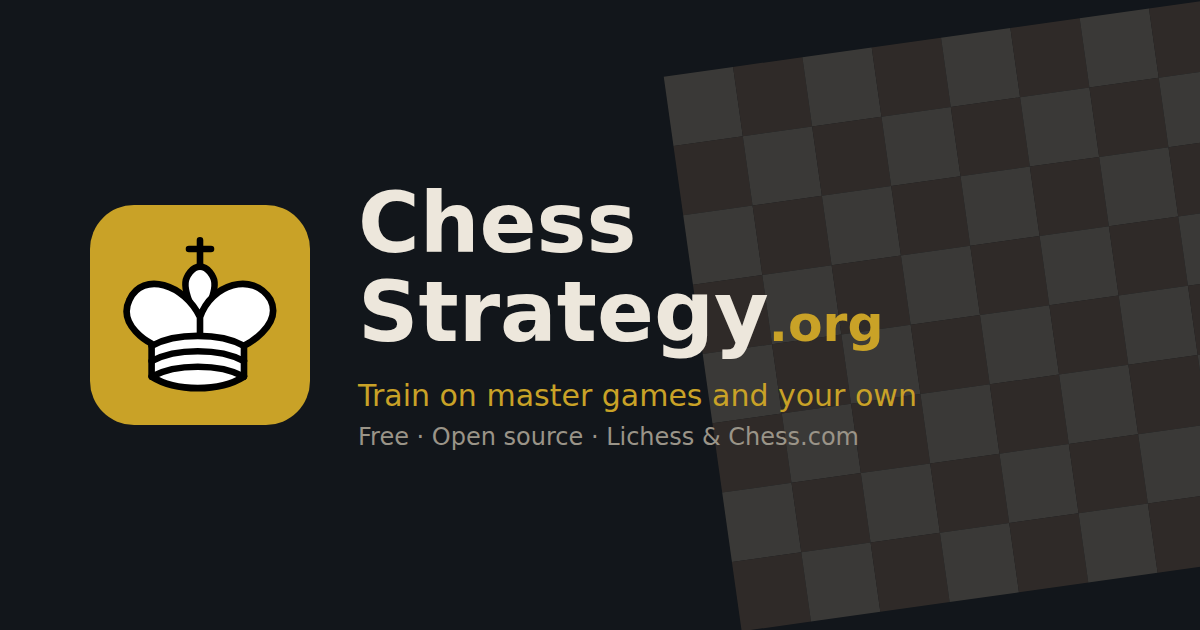
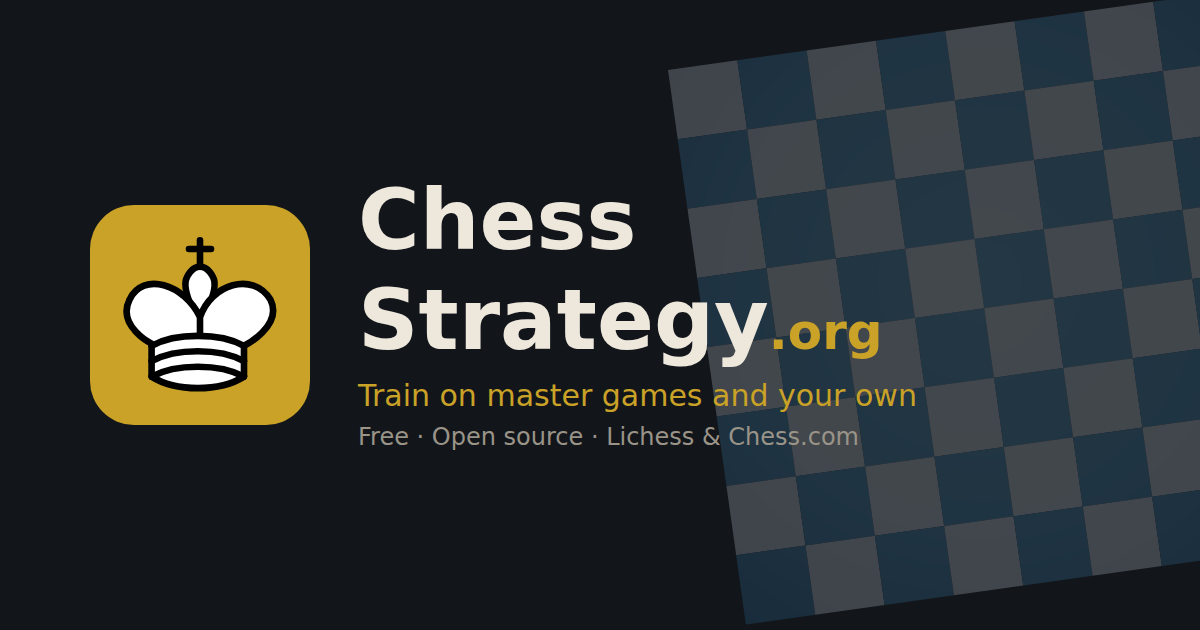
Board: the centre light on every board (the setting removed); preview image with the default board colours
Claude-Session: https://claude.ai/code/session_01MnfZY7zM1xtVVHQnQ5TNNV

Changed region(s): [[0.2775, 0.0, 1.0, 1.0], [0.37, 0.3016, 0.5242, 0.4222], [0.3083, 0.2714, 0.3392, 0.3317]]

diff --git a/app/index.html b/app/index.html
@@ -282,14 +282,10 @@
     border:1px solid var(--border); border-radius:2px; overflow:hidden;
   }
   .board{container-type:inline-size;}
-  /* Board light (Settings): a soft light over the whole board, from the top-left corner or the centre */
-  .board{position:relative; isolation:isolate;}   /* (the light stays under the arrows drawn over the board) */
-  html[data-light] .board::after{content:''; position:absolute; inset:0; pointer-events:none; z-index:3; mix-blend-mode:soft-light;}
-  html[data-light="corner"] .board::after{background:radial-gradient(120% 120% at 20% 10%, rgba(255,255,255,.26), rgba(255,255,255,0) 45%, rgba(0,0,0,.34) 100%);}
-  html[data-light="centre"] .board::after{background:radial-gradient(75% 75% at 50% 45%, rgba(255,255,255,.34), rgba(255,255,255,0) 60%, rgba(0,0,0,.5) 100%);}
-  .set-mini{display:flex; gap:4px; flex:none;}
-  .set-mini button{background:var(--panel-2); border:1px solid var(--border); border-radius:999px; color:var(--text-mute); padding:4px 10px; font:inherit; font-size:0.8rem; cursor:pointer;}
-  .set-mini button.on{border-color:var(--accent); color:var(--text);}
+  /* The board's light: a soft glow in the centre, the edges a little darker (over every board, under the arrows) */
+  .board{position:relative; isolation:isolate;}
+  .board::after{content:''; position:absolute; inset:0; pointer-events:none; z-index:3; mix-blend-mode:soft-light;
+    background:radial-gradient(75% 75% at 50% 45%, rgba(255,255,255,.34), rgba(255,255,255,0) 60%, rgba(0,0,0,.5) 100%);}
   .sq{position:relative; display:flex;align-items:center;justify-content:center; font-size:10cqw; line-height:1; user-select:none;}
   .sq.light{background:var(--board-light);}
   .sq.dark{background:var(--board-dark);}
@@ -5986,7 +5982,7 @@ function keepFades(){
 const SETTINGS_LS = 'cst.settings';
 const SET_BASE = { 'board-light':'#D8E1E8', 'board-dark':'#4991BE', 'square-hl':'#9BCD14', pick1:'#279C47', pick2:'#D25450', pick3:'#4E7EE2', system:'#D9B33A', 'cyan-arrow':'#00CEEB', top3:'#CBA0FF' };
 const SET_ARROWS = [['pick1', '1st'], ['pick2', '2nd'], ['pick3', '3rd'], ['system', '4th'], ['cyan-arrow', '5th'], ['top3', '6th']];
-const SET_DEFAULT = { coords:false, boardLight:'none', boardHue:0, boardSat:100, boardLum:0, lastHue:null, arrows:{}, notation:'intl', lang:null, at:0, v:2 };   // lang null: the device's (French when it's French, else English)
+const SET_DEFAULT = { coords:false, boardHue:0, boardSat:100, boardLum:0, lastHue:null, arrows:{}, notation:'intl', lang:null, at:0, v:2 };   // lang null: the device's (French when it's French, else English)
 const SET_VERSION = 2;   // 2: hues in OKLCH (earlier saved hues, in HSL, are dropped)
 const setClean = x=>x && x.v===SET_VERSION ? x : { ...(x || {}), lastHue:null, arrows:{}, v:SET_VERSION };
 let settings = (()=>{ try{ return { ...SET_DEFAULT, ...setClean(JSON.parse(localStorage.getItem(SETTINGS_LS) || 'null')) }; }catch(e){ return { ...SET_DEFAULT }; } })();
@@ -6020,7 +6016,6 @@ function applySettings(){
   // the board: hue turned, colourfulness scaled (boardSat %), lightness moved (boardLum, in OKLCH points), both squares alike
   const boardSet = settings.boardHue || (settings.boardSat ?? 100)!==100 || (settings.boardLum || 0);
   for(const k of ['board-light', 'board-dark']){ const [L, C, h] = hexOklch(SET_BASE[k]); set(k, boardSet ? oklchCss(Math.min(.98, Math.max(.15, L + (settings.boardLum || 0) / 100)), C * (settings.boardSat ?? 100) / 100, h + settings.boardHue) : null); }
-  if(settings.boardLight==='corner' || settings.boardLight==='centre') document.documentElement.dataset.light = settings.boardLight; else delete document.documentElement.dataset.light;
   set('square-hl', settings.lastHue!=null ? hueCss('square-hl', settings.lastHue, .45) : null);
   for(const [k] of SET_ARROWS){ const h = settings.arrows[k]; set(k, h!=null ? hueCss(k, h) : null); }
 }
@@ -6129,10 +6124,6 @@ const I18N_FR = new Map(Object.entries(/*I18N_FR*/{
 "Daily routine done": "Routine quotidienne faite",
 "Done ✓": "Fait ✓",
 "Done": "Fait",
-"Light": "Lumière",
-"None": "Aucune",
-"Corner": "Coin",
-"Centre": "Centre",
 "Start routine": "Commencer la routine",
 "Continue routine": "Continuer la routine",
 "Keep training": "Continuer l'entraînement",
@@ -6587,7 +6578,6 @@ function renderSettings(){
       <div class="seg" role="tablist" aria-label="Settings">${[['board', 'Board'], ['arrows', 'Arrows'], ['notation', 'Notation']].map(([k, v])=>`<button class="seg-btn${setTab===k ? ' active' : ''}" role="tab" aria-selected="${setTab===k}" data-tab="${k}">${v}</button>`).join('')}</div>
       <section class="pf-card">${setTab==='board' ? `
         ${row('Coordinates', `<button class="set-toggle${settings.coords ? ' on' : ''}" id="setCoords" role="switch" aria-checked="${settings.coords}" aria-label="Coordinates"><span></span></button>`)}
-        ${row('Light', `<div class="set-mini" role="radiogroup" aria-label="Board light">${[['none', 'None'], ['corner', 'Corner'], ['centre', 'Centre']].map(([k, v])=>`<button class="${(settings.boardLight || 'none')===k ? 'on' : ''}" data-light="${k}" role="radio" aria-checked="${(settings.boardLight || 'none')===k}">${v}</button>`).join('')}</div>`)}
         ${row('Board hue', slider('setBoardHue', -180, 180, settings.boardHue, boardTrack('hue')), 'var(--board-dark)')}
         ${row('Saturation', slider('setBoardSat', 0, 250, settings.boardSat ?? 100, boardTrack('sat')), 'var(--board-dark)')}
         ${row('Lightness', slider('setBoardLum', -25, 25, settings.boardLum || 0, boardTrack('lum')), 'var(--board-light)')}
@@ -6611,10 +6601,9 @@ function renderSettings(){
   on('setLastHue', 'oninput', e=>{ settings.lastHue = +e.target.value; live(); });
   for(const [k] of SET_ARROWS) on('setAr-' + k, 'oninput', e=>{ settings.arrows = { ...settings.arrows, [k]: +e.target.value }; live(); });
   document.querySelectorAll('.set-opt').forEach(b=>b.onclick = ()=>{ settings.notation = b.dataset.n; saveSettings(); rebuild(); });
-  document.querySelectorAll('.set-mini [data-light]').forEach(b=>b.onclick = ()=>{ settings.boardLight = b.dataset.light; applySettings(); saveSettings(); rebuild(); });
   // Reset: only the section shown (Board, Arrows or Notation)
   document.getElementById('setReset').onclick = ()=>{
-    if(setTab==='board') Object.assign(settings, { coords: SET_DEFAULT.coords, boardLight: SET_DEFAULT.boardLight, boardHue: SET_DEFAULT.boardHue, boardSat: SET_DEFAULT.boardSat, boardLum: SET_DEFAULT.boardLum, lastHue: SET_DEFAULT.lastHue });
+    if(setTab==='board') Object.assign(settings, { coords: SET_DEFAULT.coords, boardHue: SET_DEFAULT.boardHue, boardSat: SET_DEFAULT.boardSat, boardLum: SET_DEFAULT.boardLum, lastHue: SET_DEFAULT.lastHue });
     else if(setTab==='arrows') settings.arrows = {};
     else settings.notation = SET_DEFAULT.notation;
     applySettings(); saveSettings(); rebuild(); };

diff --git a/index.html b/index.html
@@ -310,14 +310,10 @@
     border:1px solid var(--border); border-radius:2px; overflow:hidden;
   }
   .board{container-type:inline-size;}
-  /* Board light (Settings): a soft light over the whole board, from the top-left corner or the centre */
-  .board{position:relative; isolation:isolate;}   /* (the light stays under the arrows drawn over the board) */
-  html[data-light] .board::after{content:''; position:absolute; inset:0; pointer-events:none; z-index:3; mix-blend-mode:soft-light;}
-  html[data-light="corner"] .board::after{background:radial-gradient(120% 120% at 20% 10%, rgba(255,255,255,.26), rgba(255,255,255,0) 45%, rgba(0,0,0,.34) 100%);}
-  html[data-light="centre"] .board::after{background:radial-gradient(75% 75% at 50% 45%, rgba(255,255,255,.34), rgba(255,255,255,0) 60%, rgba(0,0,0,.5) 100%);}
-  .set-mini{display:flex; gap:4px; flex:none;}
-  .set-mini button{background:var(--panel-2); border:1px solid var(--border); border-radius:999px; color:var(--text-mute); padding:4px 10px; font:inherit; font-size:0.8rem; cursor:pointer;}
-  .set-mini button.on{border-color:var(--accent); color:var(--text);}
+  /* The board's light: a soft glow in the centre, the edges a little darker (over every board, under the arrows) */
+  .board{position:relative; isolation:isolate;}
+  .board::after{content:''; position:absolute; inset:0; pointer-events:none; z-index:3; mix-blend-mode:soft-light;
+    background:radial-gradient(75% 75% at 50% 45%, rgba(255,255,255,.34), rgba(255,255,255,0) 60%, rgba(0,0,0,.5) 100%);}
   .sq{position:relative; display:flex;align-items:center;justify-content:center; font-size:10cqw; line-height:1; user-select:none;}
   .sq.light{background:var(--board-light);}
   .sq.dark{background:var(--board-dark);}
@@ -6014,7 +6010,7 @@ function keepFades(){
 const SETTINGS_LS = 'cst.settings';
 const SET_BASE = { 'board-light':'#D8E1E8', 'board-dark':'#4991BE', 'square-hl':'#9BCD14', pick1:'#279C47', pick2:'#D25450', pick3:'#4E7EE2', system:'#D9B33A', 'cyan-arrow':'#00CEEB', top3:'#CBA0FF' };
 const SET_ARROWS = [['pick1', '1st'], ['pick2', '2nd'], ['pick3', '3rd'], ['system', '4th'], ['cyan-arrow', '5th'], ['top3', '6th']];
-const SET_DEFAULT = { coords:false, boardLight:'none', boardHue:0, boardSat:100, boardLum:0, lastHue:null, arrows:{}, notation:'intl', lang:null, at:0, v:2 };   // lang null: the device's (French when it's French, else English)
+const SET_DEFAULT = { coords:false, boardHue:0, boardSat:100, boardLum:0, lastHue:null, arrows:{}, notation:'intl', lang:null, at:0, v:2 };   // lang null: the device's (French when it's French, else English)
 const SET_VERSION = 2;   // 2: hues in OKLCH (earlier saved hues, in HSL, are dropped)
 const setClean = x=>x && x.v===SET_VERSION ? x : { ...(x || {}), lastHue:null, arrows:{}, v:SET_VERSION };
 let settings = (()=>{ try{ return { ...SET_DEFAULT, ...setClean(JSON.parse(localStorage.getItem(SETTINGS_LS) || 'null')) }; }catch(e){ return { ...SET_DEFAULT }; } })();
@@ -6048,7 +6044,6 @@ function applySettings(){
   // the board: hue turned, colourfulness scaled (boardSat %), lightness moved (boardLum, in OKLCH points), both squares alike
   const boardSet = settings.boardHue || (settings.boardSat ?? 100)!==100 || (settings.boardLum || 0);
   for(const k of ['board-light', 'board-dark']){ const [L, C, h] = hexOklch(SET_BASE[k]); set(k, boardSet ? oklchCss(Math.min(.98, Math.max(.15, L + (settings.boardLum || 0) / 100)), C * (settings.boardSat ?? 100) / 100, h + settings.boardHue) : null); }
-  if(settings.boardLight==='corner' || settings.boardLight==='centre') document.documentElement.dataset.light = settings.boardLight; else delete document.documentElement.dataset.light;
   set('square-hl', settings.lastHue!=null ? hueCss('square-hl', settings.lastHue, .45) : null);
   for(const [k] of SET_ARROWS){ const h = settings.arrows[k]; set(k, h!=null ? hueCss(k, h) : null); }
 }
@@ -6157,10 +6152,6 @@ const I18N_FR = new Map(Object.entries(/*I18N_FR*/{
 "Daily routine done": "Routine quotidienne faite",
 "Done ✓": "Fait ✓",
 "Done": "Fait",
-"Light": "Lumière",
-"None": "Aucune",
-"Corner": "Coin",
-"Centre": "Centre",
 "Start routine": "Commencer la routine",
 "Continue routine": "Continuer la routine",
 "Keep training": "Continuer l'entraînement",
@@ -6615,7 +6606,6 @@ function renderSettings(){
       <div class="seg" role="tablist" aria-label="Settings">${[['board', 'Board'], ['arrows', 'Arrows'], ['notation', 'Notation']].map(([k, v])=>`<button class="seg-btn${setTab===k ? ' active' : ''}" role="tab" aria-selected="${setTab===k}" data-tab="${k}">${v}</button>`).join('')}</div>
       <section class="pf-card">${setTab==='board' ? `
         ${row('Coordinates', `<button class="set-toggle${settings.coords ? ' on' : ''}" id="setCoords" role="switch" aria-checked="${settings.coords}" aria-label="Coordinates"><span></span></button>`)}
-        ${row('Light', `<div class="set-mini" role="radiogroup" aria-label="Board light">${[['none', 'None'], ['corner', 'Corner'], ['centre', 'Centre']].map(([k, v])=>`<button class="${(settings.boardLight || 'none')===k ? 'on' : ''}" data-light="${k}" role="radio" aria-checked="${(settings.boardLight || 'none')===k}">${v}</button>`).join('')}</div>`)}
         ${row('Board hue', slider('setBoardHue', -180, 180, settings.boardHue, boardTrack('hue')), 'var(--board-dark)')}
         ${row('Saturation', slider('setBoardSat', 0, 250, settings.boardSat ?? 100, boardTrack('sat')), 'var(--board-dark)')}
         ${row('Lightness', slider('setBoardLum', -25, 25, settings.boardLum || 0, boardTrack('lum')), 'var(--board-light)')}
@@ -6639,10 +6629,9 @@ function renderSettings(){
   on('setLastHue', 'oninput', e=>{ settings.lastHue = +e.target.value; live(); });
   for(const [k] of SET_ARROWS) on('setAr-' + k, 'oninput', e=>{ settings.arrows = { ...settings.arrows, [k]: +e.target.value }; live(); });
   document.querySelectorAll('.set-opt').forEach(b=>b.onclick = ()=>{ settings.notation = b.dataset.n; saveSettings(); rebuild(); });
-  document.querySelectorAll('.set-mini [data-light]').forEach(b=>b.onclick = ()=>{ settings.boardLight = b.dataset.light; applySettings(); saveSettings(); rebuild(); });
   // Reset: only the section shown (Board, Arrows or Notation)
   document.getElementById('setReset').onclick = ()=>{
-    if(setTab==='board') Object.assign(settings, { coords: SET_DEFAULT.coords, boardLight: SET_DEFAULT.boardLight, boardHue: SET_DEFAULT.boardHue, boardSat: SET_DEFAULT.boardSat, boardLum: SET_DEFAULT.boardLum, lastHue: SET_DEFAULT.lastHue });
+    if(setTab==='board') Object.assign(settings, { coords: SET_DEFAULT.coords, boardHue: SET_DEFAULT.boardHue, boardSat: SET_DEFAULT.boardSat, boardLum: SET_DEFAULT.boardLum, lastHue: SET_DEFAULT.lastHue });
     else if(setTab==='arrows') settings.arrows = {};
     else settings.notation = SET_DEFAULT.notation;
     applySettings(); saveSettings(); rebuild(); };
